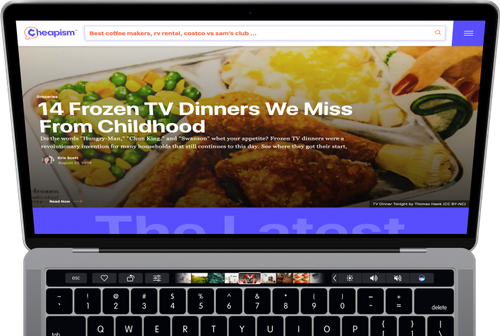
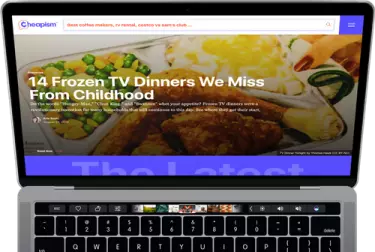
fix: display images with incorrect aspect ratio

diff --git a/case-study/cheapism.html b/case-study/cheapism.html
@@ -47,14 +47,11 @@
           <h1 class="web-case-study-h1">Cheapism</h1>
           <p class="case-study-paragraph-text white-text hero-text cheapism-hero-text"><strong class="case-study-h3 white-text">Live Well No Matter What Your Budget</strong> <br>Cheapism is a comprehensive online buying guide/review website recommending inexpensive consumer products without compromising quality. Through in-depth research, Cheapism&#x27;s editorial team pays close attention to online reviews, long-term performance, practical features, and potential flaws. Users can browse the Cheapism website to find where to purchase the best deals.</p>
         </div>
-        <div data-w-id="fe69035e-3853-c081-c80c-b4fcd9c163c2" class="case-study-web-hero-right-column cheapism-web-hero-right-column w-col w-col-5">
-          <picture>
-            <source loading="lazy" media="(max-width: 479px)" width="327px" height="220px" srcset="../images/case-study/cheapism/webp/cheapsim-mobile.webp" type="image/webp">
+          <picture data-w-id="fe69035e-3853-c081-c80c-b4fcd9c163c2" class="case-study-web-hero-right-column cheapism-web-hero-right-column w-col w-col-5">
+            <source loading="lazy" media="(max-width: 479px)" width="100%" height="100%" srcset="../images/case-study/cheapism/webp/cheapsim-mobile.webp 1x, ../images/case-study/cheapism/webp/cheapsim-retina.webp 2x" type="image/webp">
             <source srcset="../images/case-study/cheapism/webp/cheapsim.webp" type="image/webp">
-            <source srcset="../images/case-study/cheapism/png/cheapsim-p-1498.png" type="image/png">
             <img src="../images/case-study/cheapism/png/cheapsim-p-1498.png" alt="Screenshot of Cheapism webapp user dashboard" srcset="../images/case-study/cheapism/png/cheapsim-p-500.png 500w, ../images/case-study/cheapism/png/cheapsim-p-800.png 800w, ../images/case-study/cheapism/png/cheapsim-p-1080.png 1080w, ../images/case-study/cheapism/png/cheapsim-p-1498.png 1498w" sizes="(max-width: 479px) 90vw, (max-width: 991px) 94vw, 83vw" class="web-hero-image cheapism-hero-image">
           </picture>
-        </div>
       </div>
     </div>
   </div>
@@ -83,14 +80,12 @@
       </div>
     </div>
   </div>
-  <div class="web-section-image cheapism-web-section-image">
-    <picture>
-      <source loading="lazy" media="(max-width: 479px)" width="375px" height="95px" srcset="../images/case-study/cheapism/webp/web-section-mobile.webp" type="image/webp">
+    <picture class="web-section-image cheapism-web-section-image">
+      <source loading="lazy" media="(max-width: 479px)" width="100%" height="100%" srcset="../images/case-study/cheapism/webp/web-section-mobile.webp 1x, ../images/case-study/cheapism/webp/web-section-retina.webp" type="image/webp">
       <source srcset="../images/case-study/cheapism/webp/web-section-p-1600.webp" type="image/webp">
       <source srcset="../images/case-study/cheapism/web-section-p-2000" type="image/jpeg">
       <img src="../images/case-study/cheapism/web-section-p-2000.jpeg" alt="Close up image of a man wrapping a package in his home office" srcset="../images/cheapism/web-section-p-500.jpeg 500w, ../images/cheapism/web-section-p-800.jpeg 800w, ../images/cheapism/web-section-p-1600.jpeg 1600w, ../images/cheapism/web-section-p-2000.jpeg 2000w, ../images/web-section.jpg 2160w" sizes="100vw" class="cheapism-web-section-image">
     </picture>
-  </div>
   <div data-w-id="97cdc598-8073-35ae-eefe-398f72a45e47" class="web-section-2 cheapism-web-section-2">
     <div class="case-study-web-container">
       <h2 class="case-study-h2 section-2-header"><strong>Integrate With Your Team</strong></h2>
